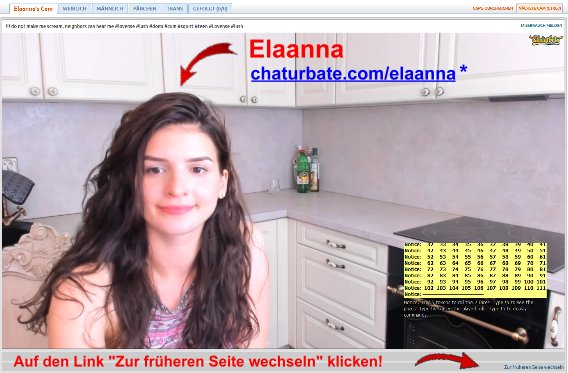
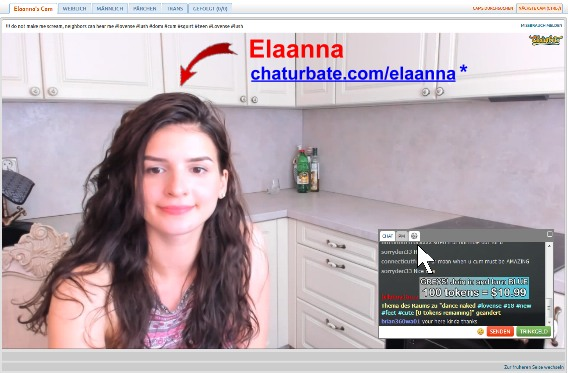
Commit to YOURCURRENTBRANCH

Changed region(s): [[0.6585, 0.5898, 0.9877, 0.9142], [0.0, 0.9437, 0.6884, 1.0], [0.7183, 0.9437, 0.838, 1.0]]

diff --git a/faq/index.htm b/faq/index.htm
@@ -116,24 +116,23 @@ a {
 .auto-style92 {
 	text-decoration: underline;
 }
-.auto-style93 {
-	text-align: justify;
-	word-spacing: 0;
-	margin-bottom: -13px;
-}
-.auto-style94 {
-	text-align: left;
-	word-spacing: 0;
-	margin-bottom: -13px;
-}
 .auto-style65 {
 	margin: 2px 7px;
 }
-.auto-style95 {
+.auto-style101 {
+	font-size: 14pt;
 	text-align: left;
-	word-spacing: 0;
-	color: #FF0000;
-	margin-top: -10px;
+	color: #AE1010;
+}
+.auto-style102 {
+	text-align: left;
+}
+.auto-style103 {
+	color: #AE1010;
+	font-size: 14pt;
+}
+.auto-style104 {
+	font-size: 16pt;
 }
 </style>
 <meta content="FAQ,Camgirl,Webcamgirl,Webcam-Girl,Webcam-Darstellerin,Erotikdarstellerin,Erotik-Darstellerin,Fragen,Antworten" name="keywords">
@@ -177,8 +176,7 @@ a {
 	Screen" werden wichtige Einstellungen, Schaltflächen und Links nur via 
 	Mouseover sichtbar (suboptimal). Fahren sie mit dem Mauszeiger über den 
 	Stream <span class="auto-style92">und über den im Stream eingebetteten Chat</span>, 
-	um das Zahnrad für Einstellungen oder den Button für Trinkgelt (Spenden und 
-	Tipnote) sichtbar zu machen!</em></p>
+	um das Zahnrad-Symbol für Einstellungen oder den Button für Trinkgelt (Spenden und Tipnote) sichtbar zu machen!</em></p>
 	<hr class="auto-style63">
 	<p class="auto-style67">
 	<strong>Der bisweilen kärgliche Inhalt:</strong></p>
@@ -205,54 +203,56 @@ a {
 	</map>
 	<img class="auto-style88" height="85" src="../dateien-deutsche-camgirls/direkt-zu-chaturbate.png" width="245" usemap="#ImgMap0">&nbsp;</p>
 	<hr class="auto-style63">
-	<h2 class="auto-style66"><a name="Tokenklang abstellen"></a>Wie man das blöde Gebimmel abstellt 
-	(Tokengeräusche)</h2>
-	<p class="auto-style60">Ältere Menschen und ruhige Zeitgenossen werden sich 
+	<h2 class="auto-style66"><a name="Tokenklang abstellen"></a>
+	<span class="auto-style104">Wie man das blöde Gebimmel abstellt 
+	(Tokenklang)</span></h2>
+	<p class="auto-style60">
+	<strong><img class="auto-style65" height="211" src="token-klang-abstellen.png" style="float: left" width="230" title="Die Tokengeräusche deaktivieren" alt="Wie man die Token Geräusche auf Chaturbate abstellen kann"></strong>Ältere Menschen und ruhige Zeitgenossen werden sich 
 	bisweilen über jenes nervige Gebimmel aufregen, welches jeder gespendete 
 	Token mit sich bringt. Über dessen Sinn könnte man philosophieren, aber 
 	erträglicher wird es dadurch nicht. Möglicherweise soll der helle Glockenton 
 	an das Gewissen der Nichtspender appellieren, es merklich verschlechtern und 
-	so deren Zahlungsmoral verbessern?! Sei es drum, es ist nicht auszuhalten.<br>
-	<strong><img class="auto-style65" height="211" src="token-klang-abstellen.png" style="float: left" width="230" title="Die Tokengeräusche deaktivieren" alt="Wie man die Token Geräusche auf Chaturbate abstellen kann">Um das Tokengeräusch 
-	dauerhaft abstellen zu können, müssen Sie sich zunächst einloggen.</strong> 
-	Sie brauchen also zumindest einen 
-	kostenlosen Account. Befinden Sie sich eingeloggt auf der Seite des 
-	jeweiligen Webcam-Girls, sollten Sie zunächst "Zur früheren Seite wechseln". 
-	Der unscheinbare Link dazu befindet sich rechts unterhalb des Livestreams 
-	(siehe <a href="#Bild 1 Chaturbate FAQ" target="_self">Bild 1</a>). Möglicherweise befinden Sie sich auch schon auf der früheren 
-	Seite. Dort klicken Sie im rechten Bereich oberhalb des Chats 
-	auf das Zahnradsymbol (siehe
-	<a href="#Bild 2 Chaturbate deutsche Anleitung" target="_self">Bild 2</a>), um eine Registerkarte mit interessanten 
-	Einstellungsmöglichkeiten in den Vordergrund zu rücken.&nbsp; Dort finden 
-	Sie einen Schieberegler mit der Bezeichnung "Tip Volume". Je nach Ansicht 
-	ist er bisweilen immer noch mit der missverständlichen Bezeichnung "Höhe des 
-	Trinkgelds" beschriftet. 
-	Ziehen Sie 
-	den Regler ganz nach links und stellen Sie ihn auf 0%! Das nervige Gebimmel hat 
-	ein jähes Ende. Trotzdem sollten Sie der Webcam-Darstellerin hin und wieder 
-	einen Token rüberwachsen lassen, um zu verhindern dass sie sich weiter 
-	auszieht!<br>Hinweis: Ist das Gebimmel hernach trotzdem noch mehr oder minder 
-	laut zu hören, wird es nicht nur über den Chat, sondern auch über den Stream 
-	übertragen. Dies ist der Fall, wenn sich das Webcam-Girl in ihrem 
-	Arbeitsraum am Gebimmel erfreut und das Mikrofon zu nah am Lautsprecher 
-	stehen hat. In diesem Falle müssen Sie leider auch den Stream leiser 
-	stellen.</p>
-	<p class="auto-style93"><strong><a name="Bild 1 Chaturbate FAQ"></a>Bild 1</strong></p>
-	<p class="auto-style69">
-	<map id="ImgMap1" name="ImgMap1">
-		<area alt="" coords="240, 50, 477, 101" href="https://chaturbate.com/in/?track=default&amp;tour=dT8X&amp;campaign=1Fwry&amp;room=elaanna" rel="nofollow" shape="rect" target="_self">
-	</map>
-	<img alt="Webcam-Girl Elaanna bereichert unser Chaturbate FAQ." title="unten rechts auf den unscheinbaren Link klicken" height="373" src="faq-ansicht-wechseln.jpg" usemap="#ImgMap1" width="568"></p>
-	<p class="auto-style95">
-	<em>Alternativ können Sie den Mauszeiger über den im Stream eingebetteten 
-	Chat bewegen, um das Zahnrad für Einstellungen sichtbar zu machen!</em></p>
-	<p class="auto-style94">
-	<strong><a name="Bild 2 Chaturbate deutsche Anleitung"></a>Bild 2</strong></p>
-	<p class="auto-style69">
+	so deren Zahlungsmoral verbessern?! Sei es drum, es ist nicht auszuhalten.</p>
+	<p class="auto-style60"><strong>Um den Tokenklang abstellen zu können, müssen Sie sich zunächst einloggen.</strong> 
+	<strong>Sie brauchen also zumindest einen 
+	kostenlosen Account. </strong></p>
+	<p class="auto-style60">Befinden Sie sich eingeloggt auf der Seite des 
+	gewünschten Webcam-Girls, hängt das weitere Vorgehen von der jeweiligen 
+	Seitenansicht ab.</p>
+	<h3 class="auto-style101">Tokenklang in Split-Ansicht deaktivieren</h3>
+	<p class="auto-style60">Befinden Sie sich in der klassischen Split-Ansicht 
+	(links Stream / rechts Chat), klicken Sie bitte oberhalb des Chats auf das 
+	Zahnrad-Symbol (siehe Abbildung), um eine Registerkarte mit interessanten 
+	Einstellungsmöglichkeiten in den Vordergrund zu rücken. Dort finden Sie 
+	einen Schieberegler mit der Bezeichnung "Tip Volume". Bisweilen ist er immer 
+	noch mit der missverständlichen Bezeichnung "Höhe des Trinkgelds" 
+	beschriftet. Ziehen Sie den Regler ganz nach links und stellen Sie ihn auf 
+	0%! Das nervige Gebimmel hat ein jähes Ende.</p>
+	<h3 class="auto-style102">
 	<map id="ImgMap2" name="ImgMap2">
 		<area alt="" coords="3, 67, 89, 102" href="../kimilee22/index.htm" shape="rect" target="_self">
 	</map>
-	<img src="faq-tokenkrach-abstellen.jpg" title="So deaktiviert man den Klang der Token" alt="Eine deutsche Anleitung zum Deaktivieren der Tokengeräusche" class="auto-style76" height="433" usemap="#ImgMap2" width="568"></p>
+	<img src="faq-tokenkrach-abstellen.jpg" title="So deaktiviert man den Klang der Token" alt="Eine deutsche Anleitung zum Deaktivieren der Tokengeräusche" class="auto-style76" height="433" usemap="#ImgMap2" width="568"><br>
+	<br><span class="auto-style103">Tokenklang im Theater Mode bzw. 
+	Vollbildmodus abstellen</span></h3>
+	<p class="auto-style60">Befinden Sie sich im "Theater Mode" oder im 
+	"Interactive Full Screen" (formatfüllender Stream mit eingebettetem Chat), 
+	so wissen Sie hoffentlich was "Mouseover" bedeutet?! Bewegen Sie den 
+	Mauszeiger über den im Stream eingebetteten Chat, um ein Zahnradsymbol 
+	sichtbar zu machen (siehe Abbildung). Klicken Sie das Zahnrad-Symbol an und 
+	scrollen Sie die sich öffnende Seite mit verschiedenen 
+	Einstellungsmöglichkeiten ganz nach unten. Dort befindet sich der 
+	Schieberegler für die Lautstärke mit der irreführenden Bezeichnung "Höhe des 
+	Trinkgelds" (manchmal auch "Tip Volume"). Ziehen Sie den Regler ganz nach 
+	links auf 0%, um den Tokenklang zu deaktivieren!</p>
+	<p class="auto-style60">
+	<map id="ImgMap1" name="ImgMap1">
+		<area alt="" coords="240, 50, 477, 101" href="https://chaturbate.com/in/?track=default&amp;tour=dT8X&amp;campaign=1Fwry&amp;room=elaanna" rel="nofollow" shape="rect" target="_self">
+	</map>
+	<img alt="Webcam-Girl Elaanna bereichert unser Chaturbate FAQ." title="den Mauszeiger über den Chat ziehen" height="373" src="faq-ansicht-wechseln.jpg" usemap="#ImgMap1" width="568"></p>
+	<p class="auto-style60">Ist das Gebimmel hernach trotzdem noch mehr oder minder 
+	laut zu hören, wird es auch über den Stream übertragen. In diesem Falle müssen Sie leider auch den Stream leiser 
+	stellen.</p>
 	<p class="auto-style69">
 	<a href="index.htm" target="_self"><strong>zum Inhalt</strong></a></p>
 	<hr class="auto-style63">

diff --git a/faq/_vti_cnf/index.htm b/faq/_vti_cnf/index.htm
@@ -1,11 +1,11 @@
 vti_encoding:SR|utf8-nl
 vti_author:SR|Office-PC\\Office
 vti_modifiedby:SR|Office-PC\\Office
-vti_timelastmodified:TR|22 Jul 2020 12:49:01 -0000
+vti_timelastmodified:TR|22 Jul 2020 15:54:02 -0000
 vti_timecreated:TR|03 Nov 2019 10:23:31 -0000
 vti_title:SR|Das nicht allumfassende Chaturbate FAQ für Anfänger
 vti_extenderversion:SR|12.0.0.0
-vti_nexttolasttimemodified:TW|22 Jul 2020 11:39:01 -0000
+vti_nexttolasttimemodified:TW|22 Jul 2020 15:50:12 -0000
 vti_syncofs_webcam-darstellerin.com\:21/webcam-darstellerin.com:TW|14 Nov 2019 10:40:48 -0000
 vti_syncwith_webcam-darstellerin.com\:21/webcam-darstellerin.com:TX|09 Nov 2019 18:26:01 -0000
 vti_syncofs_ftp.schmidtb.heliohost.org\:21:TW|14 Feb 2020 20:09:50 -0000
@@ -18,12 +18,12 @@ vti_syncofs_93.104.209.49\:21/%2fhttpdocs/webcam-darstellerin.com:TW|11 Feb 2020
 vti_syncwith_ftpupload.net\:21/%2fwebcam-darstellerin.com/htdocs:TX|11 Feb 2020 15:26:55 -0000
 vti_syncofs_ftpupload.net\:21/%2fwebcam-darstellerin.com/htdocs:TW|14 Feb 2020 19:48:58 -0000
 vti_backlinkinfo:VX|index.htm perfektion/index.htm faq/index.htm
-vti_cacheddtm:TX|22 Jul 2020 12:49:01 -0000
-vti_filesize:IR|21470
+vti_cacheddtm:TX|22 Jul 2020 15:54:02 -0000
+vti_filesize:IR|21527
 vti_cachedtitle:SR|Das nicht allumfassende Chaturbate FAQ für Anfänger
 vti_cachedbodystyle:SR|<body style="background-color: #FFD7D7; margin-left: 0; margin-right: 0; margin-top: 0;">
-vti_cachedlinkinfo:VX|H|../index.htm S|../dateien-deutsche-camgirls/banner.jpg S|chaturbate-faq.jpg K|index.htm K|index.htm K|index.htm H|https://chaturbate.com/in/ S|../dateien-deutsche-camgirls/direkt-zu-chaturbate.png K|index.htm S|token-klang-abstellen.png K|index.htm K|index.htm H|https://chaturbate.com/in/ S|faq-ansicht-wechseln.jpg K|index.htm H|../kimilee22/index.htm S|faq-tokenkrach-abstellen.jpg K|index.htm H|index.htm S|tipnote.jpg H|index.htm H|../liebe/index.htm K|index.htm K|index.htm S|fan-club-mitglied-werden.jpg S|fanclub-member-werden.jpg H|../liebe/index.htm S|fanclub-beenden.jpg H|index.htm S|../impressum.gif -H|../impressum/index.htm -H|../index.htm -S|https://sichere-verbindung.webcam-darstellerin.com/mghb I|../footer.htm
-vti_cachedsvcrellinks:VX|FHUS|index.htm FSUS|dateien-deutsche-camgirls/banner.jpg FSUS|faq/chaturbate-faq.jpg FKUS|faq/index.htm FKUS|faq/index.htm FKUS|faq/index.htm NHSS|https://chaturbate.com/in/ FSUS|dateien-deutsche-camgirls/direkt-zu-chaturbate.png FKUS|faq/index.htm FSUS|faq/token-klang-abstellen.png FKUS|faq/index.htm FKUS|faq/index.htm NHSS|https://chaturbate.com/in/ FSUS|faq/faq-ansicht-wechseln.jpg FKUS|faq/index.htm FHUS|kimilee22/index.htm FSUS|faq/faq-tokenkrach-abstellen.jpg FKUS|faq/index.htm FHUS|faq/index.htm FSUS|faq/tipnote.jpg FHUS|faq/index.htm FHUS|liebe/index.htm FKUS|faq/index.htm FKUS|faq/index.htm FSUS|faq/fan-club-mitglied-werden.jpg FSUS|faq/fanclub-member-werden.jpg FHUS|liebe/index.htm FSUS|faq/fanclub-beenden.jpg FHUS|faq/index.htm FSUS|impressum.gif FIUS|footer.htm
+vti_cachedlinkinfo:VX|H|../index.htm S|../dateien-deutsche-camgirls/banner.jpg S|chaturbate-faq.jpg K|index.htm K|index.htm K|index.htm H|https://chaturbate.com/in/ S|../dateien-deutsche-camgirls/direkt-zu-chaturbate.png K|index.htm S|token-klang-abstellen.png H|../kimilee22/index.htm S|faq-tokenkrach-abstellen.jpg K|index.htm H|https://chaturbate.com/in/ S|faq-ansicht-wechseln.jpg K|index.htm H|index.htm S|tipnote.jpg H|index.htm H|../liebe/index.htm K|index.htm K|index.htm S|fan-club-mitglied-werden.jpg S|fanclub-member-werden.jpg H|../liebe/index.htm S|fanclub-beenden.jpg H|index.htm S|../impressum.gif -H|../impressum/index.htm -H|../index.htm -S|https://sichere-verbindung.webcam-darstellerin.com/mghb I|../footer.htm
+vti_cachedsvcrellinks:VX|FHUS|index.htm FSUS|dateien-deutsche-camgirls/banner.jpg FSUS|faq/chaturbate-faq.jpg FKUS|faq/index.htm FKUS|faq/index.htm FKUS|faq/index.htm NHSS|https://chaturbate.com/in/ FSUS|dateien-deutsche-camgirls/direkt-zu-chaturbate.png FKUS|faq/index.htm FSUS|faq/token-klang-abstellen.png FHUS|kimilee22/index.htm FSUS|faq/faq-tokenkrach-abstellen.jpg FKUS|faq/index.htm NHSS|https://chaturbate.com/in/ FSUS|faq/faq-ansicht-wechseln.jpg FKUS|faq/index.htm FHUS|faq/index.htm FSUS|faq/tipnote.jpg FHUS|faq/index.htm FHUS|liebe/index.htm FKUS|faq/index.htm FKUS|faq/index.htm FSUS|faq/fan-club-mitglied-werden.jpg FSUS|faq/fanclub-member-werden.jpg FHUS|liebe/index.htm FSUS|faq/fanclub-beenden.jpg FHUS|faq/index.htm FSUS|impressum.gif FIUS|footer.htm
 vti_cachedneedsrewrite:BR|true
 vti_cachedhasbots:BR|true
 vti_cachedhastheme:BR|false
